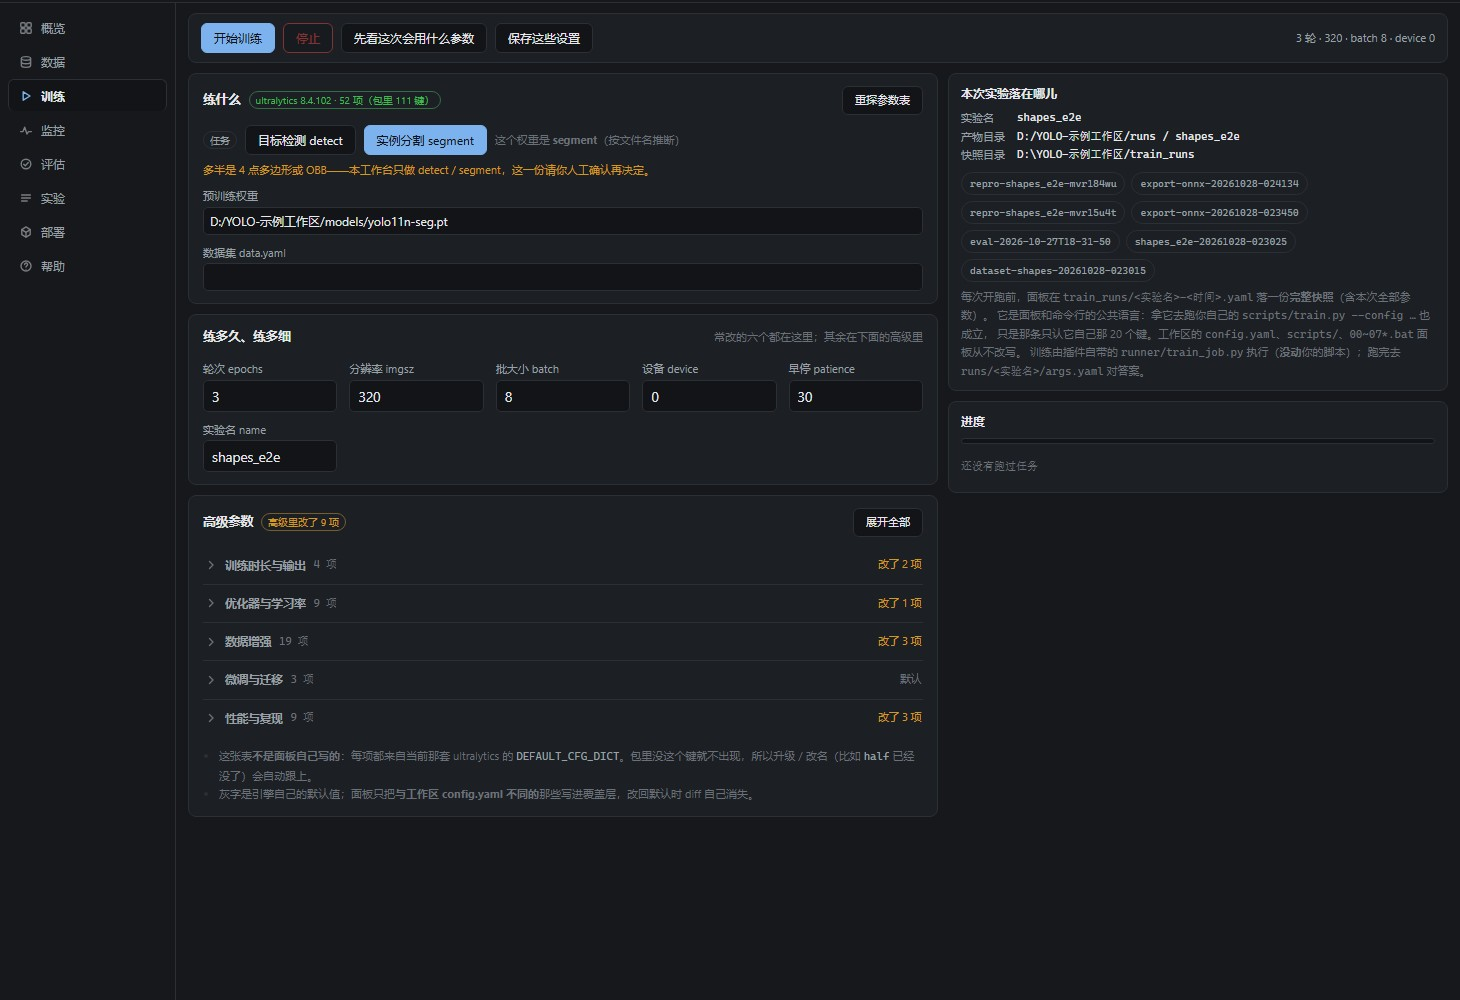
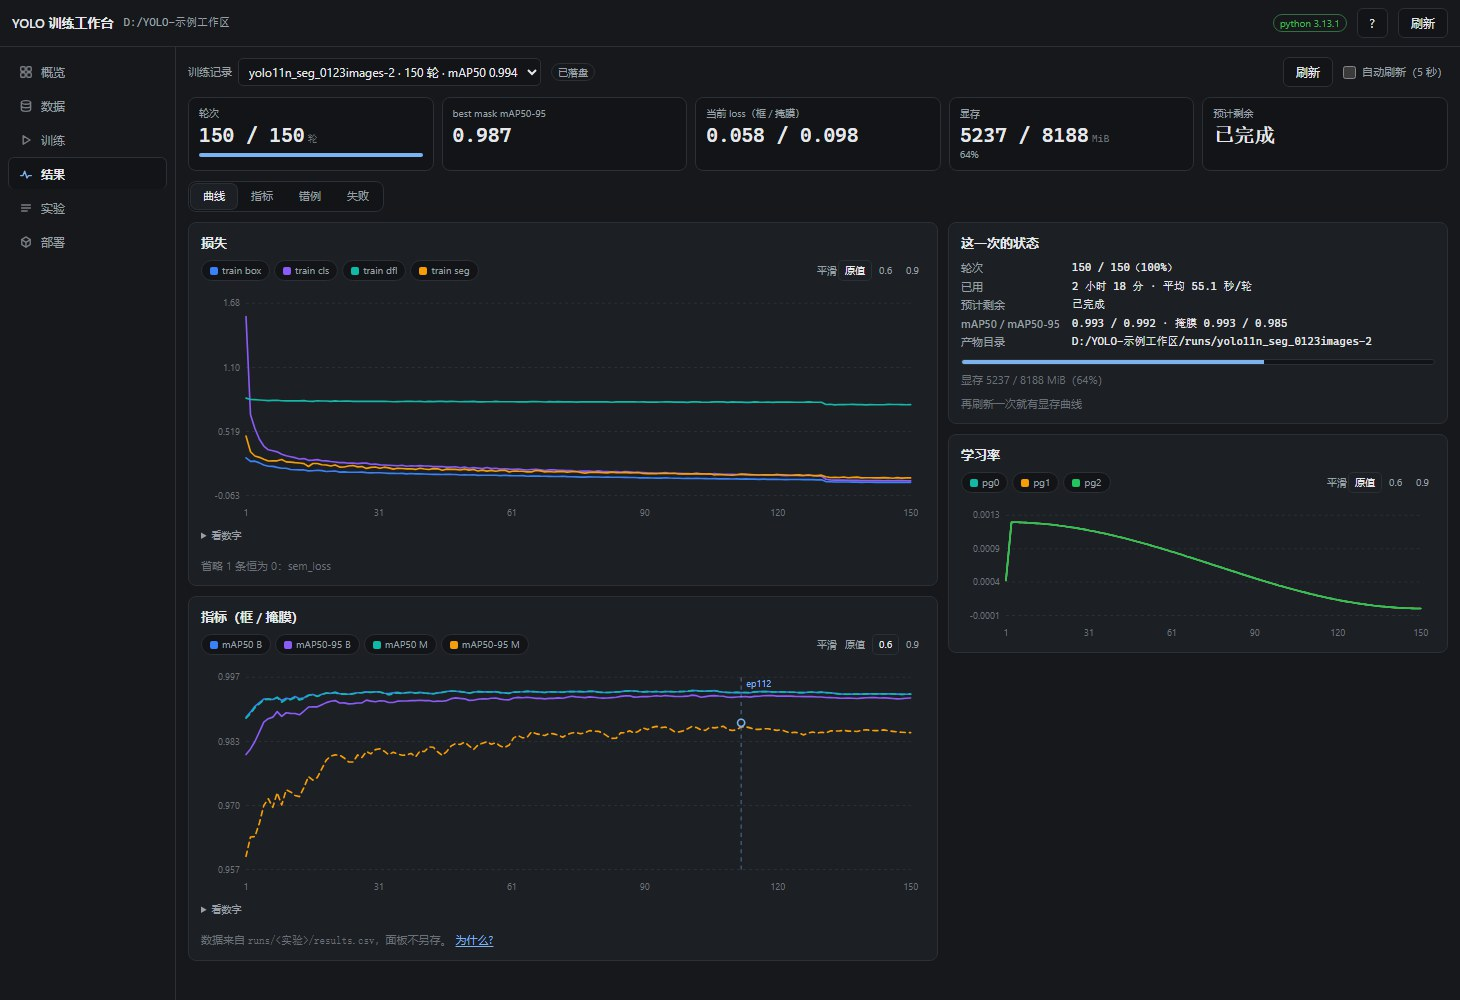
docs(plugin): 市场截图换成 0.4.5 真面板（概览 + 结果四段）
- 封面：六工作面导航 + 状态条 + 4 KPI + 下一步（真实面板渲染，无头 Edge + 假桥接）
- 结果页：run 选择 + 5 KPI + 损失/指标曲线（真实 results.csv，best ep112 标记）
- 路径打码为 D:/YOLO-示例工作区、D:\conda\envs\yolo；图注同步为结果页

diff --git a/plugins/uartix.yolo/README.md b/plugins/uartix.yolo/README.md
@@ -7,7 +7,7 @@
 
 > 下面这张是**真面板的渲染**（数据来自一次真跑出来的实验），底色与控件跟随 Uartix+ 主题。
 
-![训练面板示意](shot-train.jpg)
+![结果页示意（曲线 / 指标 / 错例 / 失败）](shot-train.jpg)
 
 ## 它是什么
 
